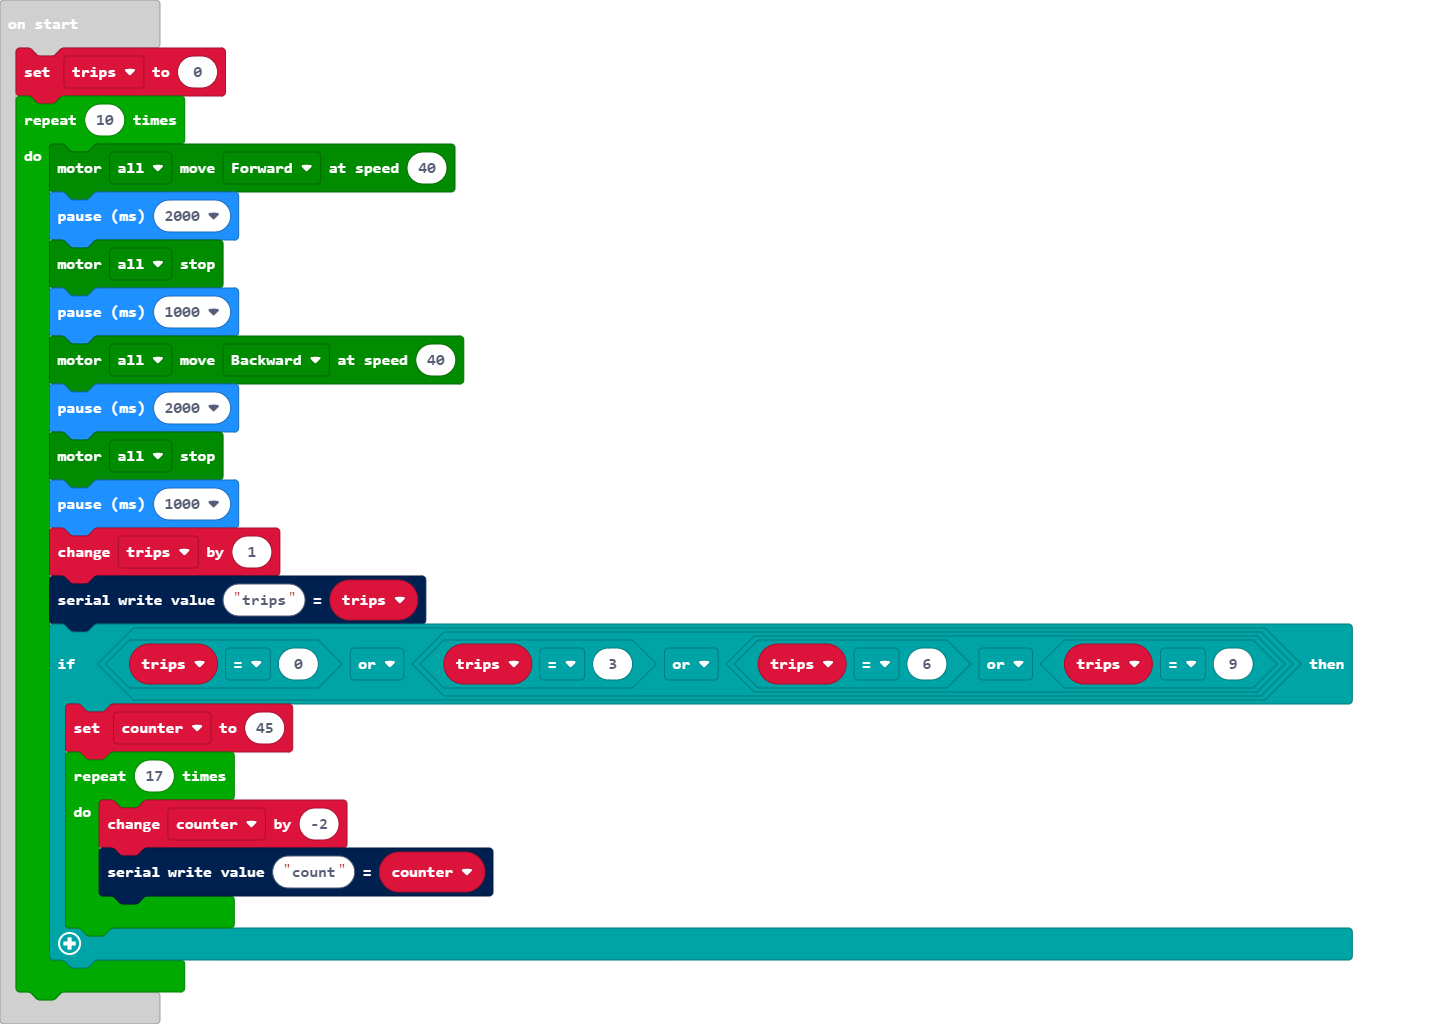
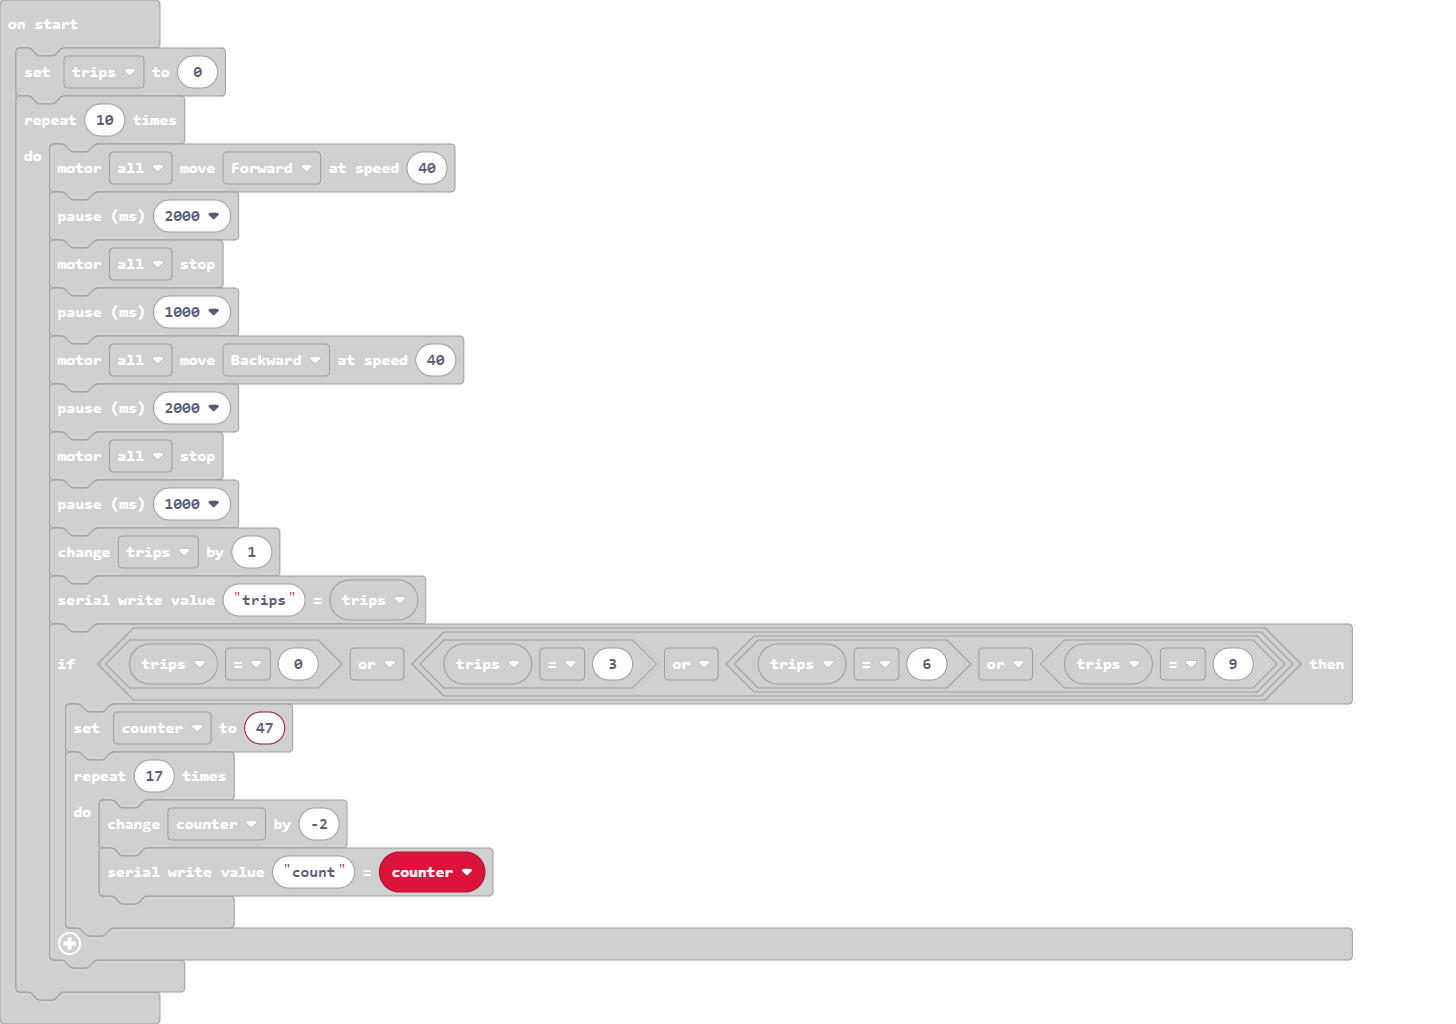
Update main.blocks, main.ts

Changed region(s): [[0.0, 0.0312, 0.9272, 1.0]]

diff --git a/main.ts b/main.ts
@@ -12,7 +12,7 @@ for (let index = 0; index < 10; index++) {
     trips += 1
     serial.writeValue("trips", trips)
     if (trips == 0 || (trips == 3 || (trips == 6 || trips == 9))) {
-        counter = 45
+        counter = 47
         for (let index = 0; index < 17; index++) {
             counter += -2
             serial.writeValue("count", counter)
